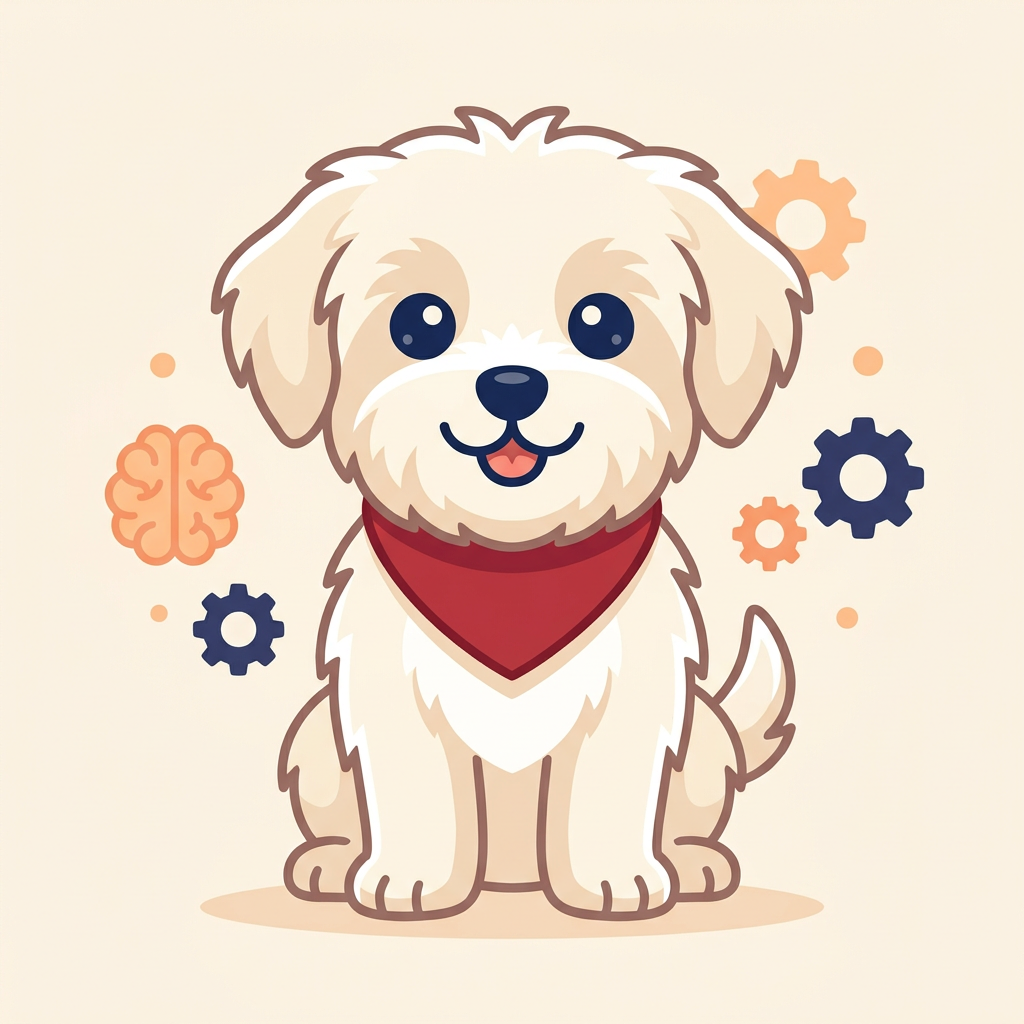
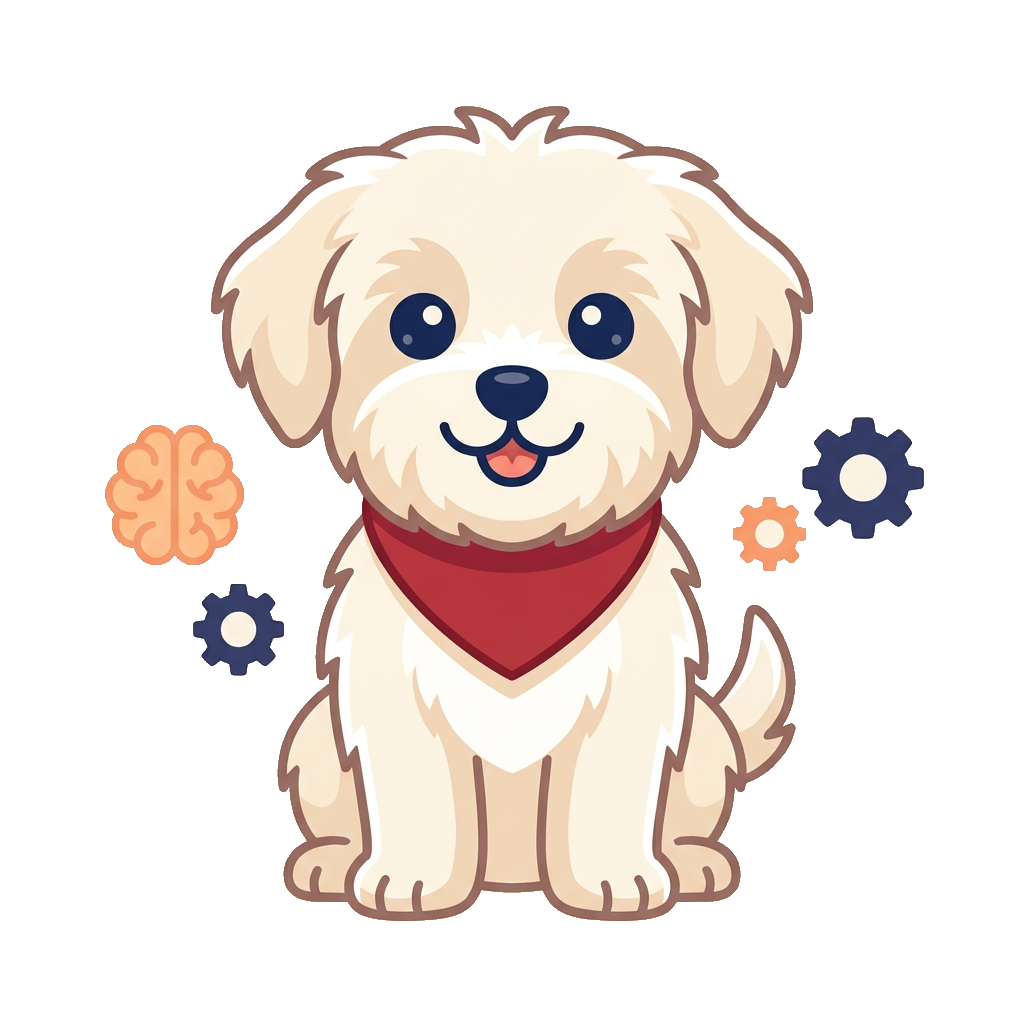
feat: 원작 요소 보강(해금·체크 1회·오늘의 한 마디) + 마스코트 투명화
원작(DS 두뇌 트레이닝) 요소 감사 후 미반영 3종 구현:
- 게임 해금: 시작 6종, 훈련한 날(도장)마다 3종씩 해금 — 잠긴 카드 🔒 + 필요 도장 안내
  (데일리 후보도 해금된 게임으로 제한)
- 뇌 나이 체크 하루 1회 기록 (재측정은 연습 안내)
- 오늘의 한 마디: 홈에 날짜 고정 팁 10종 로테이션 (일반 상식만, 의료 조언 배제)

그래픽 정합:
- 마스코트 크림 배경이 화이트 캔버스에서 분리돼 보이던 문제 → PIL 플러드필로
  배경 투명화 (Higgsfield 배경제거기는 플랫 일러스트 오인식, 원본은 mascot-cream-bg.png 보관)

시뮬 하네스: 시작 시 영구 백업 키(bw_backup_*) 기록 — 시뮬 중 실플레이가
종료 복원에 덮이는 사고 재발 방지

diff --git a/app.js b/app.js
@@ -84,6 +84,15 @@
   }
 
   const medal = s => s >= 85 ? "🥇" : s >= 65 ? "🥈" : s >= 40 ? "🥉" : "";
+
+  // ---------- 게임 해금 (원작식: 훈련한 날이 쌓이면 새 게임이 열림) ----------
+  const UNLOCK_SEQ = ["calc", "memory", "stroop", "rps", "trail", "flags",
+    "calc25", "photo", "people", "birds", "highest", "grid55",
+    "boxes", "dual", "nback", "serial", "speedcount", "sudoku", "calc100"];
+  const stamps = () => new Set(history().map(r => r.date)).size; // 훈련한 날 수
+  const unlockLimit = () => 6 + stamps() * 3; // 시작 6종 + 하루 3종씩
+  const isUnlocked = g => UNLOCK_SEQ.indexOf(g.id) < unlockLimit();
+  const unlockDay = g => Math.ceil((UNLOCK_SEQ.indexOf(g.id) - 5) / 3); // 필요한 도장 수
   // 뇌 나이(재미용 추정): 100점=20세 ~ 0점=80세 선형 매핑
   const brainAge = s => Math.max(20, Math.round(80 - 0.6 * s));
 
@@ -113,6 +122,21 @@
     $("#home-streak").textContent = line;
     $("#home-player").textContent = player() ? `🙋 ${player()} (바꾸기)` : "🙋 이름 정하기";
     $("#home-player").onclick = () => askPlayer(true);
+    // 오늘의 한 마디 (박사 잡담 포지션 — 일반 상식만, 의료 조언 아님)
+    const TIPS = [
+      "가벼운 산책 뒤에 하면 머리가 더 잘 돌아가요.",
+      "어제보다 1점이면 충분한 성장이에요.",
+      "소리 내어 숫자를 읽으면 계산이 빨라져요.",
+      "잠을 푹 잔 날은 기억 게임이 잘 돼요.",
+      "새로운 게임에 도전하는 것 자체가 좋은 자극이에요.",
+      "손가락을 많이 쓰면 두뇌도 함께 깨어나요.",
+      "매일 같은 시간에 하면 습관이 되기 쉬워요.",
+      "가족과 점수 내기를 하면 두 배로 재미있어요.",
+      "물 한 잔 마시고 시작해 보세요.",
+      "틀려도 괜찮아요. 뇌는 실수에서 더 배워요."
+    ];
+    const dayIdx = Math.floor(Date.now() / 86400000) % TIPS.length; // 하루 하나 고정
+    $("#home-tip").textContent = `💬 ${TIPS[dayIdx]}`;
     $("#chk-relax").checked = settings().relaxMode;
     $("#chk-sound").checked = settings().sound !== false;
   }
@@ -281,8 +305,12 @@
     const age = brainAge(avg);
     const ac = ageChecks();
     const prev = ac.length ? ac[ac.length - 1].age : null;
-    ac.push({ date: today(), age, avg });
-    store.set("bw_agecheck", ac);
+    // 원작식: 뇌 나이 기록은 하루 1회. 추가 측정은 연습으로만
+    const measuredToday = ac.some(r => r.date === today());
+    if (!measuredToday) {
+      ac.push({ date: today(), age, avg });
+      store.set("bw_agecheck", ac);
+    }
     show("result");
     $("#result-title").textContent = "🧠 재미로 보는 뇌 나이";
     $("#result-comment").textContent = "";
@@ -291,10 +319,11 @@
     // 드럼롤 → 숫자 롤링 → 쾅 공개
     FX.reveal($("#result-score"), age, "세", () => {
       $("#result-comment").textContent =
-        prev == null ? "첫 측정이에요. 내일 또 재 보세요!"
-          : age < prev ? `지난번 ${prev}세보다 젊어졌어요!`
-            : age > prev ? `지난번 ${prev}세보다 살짝 높네요. 컨디션 탓일 거예요.`
-              : "지난번과 같아요. 안정적!";
+        measuredToday ? "오늘은 이미 측정했어요 — 이번 건 연습 기록이에요. 내일 다시 재 봐요!"
+          : prev == null ? "첫 측정이에요. 내일 또 재 보세요!"
+            : age < prev ? `지난번 ${prev}세보다 젊어졌어요!`
+              : age > prev ? `지난번 ${prev}세보다 살짝 높네요. 컨디션 탓일 거예요.`
+                : "지난번과 같아요. 안정적!";
       $("#result-detail").innerHTML =
         session.queue.map(g => `${icon(g)} ${g.name}: ${session.results[g.id]}점`).join("<br>") +
         `<br><span class="disclaimer">놀이용 추정치예요. 의료 검사가 아닙니다.</span>`;
@@ -318,7 +347,7 @@
   };
   $("#btn-daily").onclick = () => {
     const byCat = {};
-    DAILY_POOL.forEach(g => (byCat[CATS[g.id]] = byCat[CATS[g.id]] || []).push(g));
+    DAILY_POOL.filter(isUnlocked).forEach(g => (byCat[CATS[g.id]] = byCat[CATS[g.id]] || []).push(g));
     const cats = U.shuffle(Object.keys(byCat)).slice(0, 3);
     startSession("daily", cats.map(c => U.shuffle(byCat[c])[0]));
   };
@@ -328,10 +357,13 @@
     list.innerHTML = "";
     ALL.forEach(g => {
       const b = document.createElement("button");
-      b.className = "free-card";
+      const open = isUnlocked(g);
+      b.className = "free-card" + (open ? "" : " locked");
       const bs = best()[g.id];
-      b.innerHTML = `<img class="fc-img" src="${iconSrc(g)}" alt="" onerror="this.outerHTML='<span class=fc-icon>${icon(g)}</span>'"><span class="fc-name">${g.name}</span><span class="fc-best">${bs != null ? bs + "점 " + medal(bs) : "미도전"}</span>`;
-      b.onclick = () => startSession("free", [g]);
+      b.innerHTML = open
+        ? `<img class="fc-img" src="${iconSrc(g)}" alt="" onerror="this.outerHTML='<span class=fc-icon>${icon(g)}</span>'"><span class="fc-name">${g.name}</span><span class="fc-best">${bs != null ? bs + "점 " + medal(bs) : "미도전"}</span>`
+        : `<span class="fc-icon">🔒</span><span class="fc-name">${g.name}</span><span class="fc-best">🐾 도장 ${unlockDay(g)}개면 열려요</span>`;
+      if (open) b.onclick = () => startSession("free", [g]);
       list.appendChild(b);
     });
     show("free");

diff --git a/style.css b/style.css
@@ -164,6 +164,12 @@ h2 { font-size: 28px; font-weight: var(--fw-bold); line-height: var(--lh-heading
 /* 플레이어 이름 칩 */
 .player-chip { font-size: 15px; color: var(--fg-secondary); cursor: pointer; }
 .player-chip:hover { color: var(--aia-red); text-decoration: underline; }
+.home-tip { font-size: 15px; color: var(--fg-tertiary); margin-top: 2px; }
+
+/* 잠긴 게임 카드 */
+.free-card.locked { opacity: 0.55; cursor: default; box-shadow: none; background: var(--charcoal-50); }
+.free-card.locked:hover { border-color: var(--border-hairline); transform: none; box-shadow: none; }
+.free-card.locked .fc-icon { font-size: 34px; }
 .champ-name { font-size: 14px; color: var(--fg-tertiary); font-weight: var(--fw-regular); margin-left: 4px; }
 
 /* ---------- 게임 화면 ---------- */

diff --git a/sim/autoplay.js b/sim/autoplay.js
@@ -183,9 +183,11 @@
   // ----- 드라이버 -----
   window.__runAll = async function () {
     // 스냅샷
-    const KEYS = ["bw_history", "bw_levels", "bw_best", "bw_settings", "bw_agecheck"];
+    const KEYS = ["bw_history", "bw_levels", "bw_best", "bw_settings", "bw_agecheck", "bw_player", "bw_champs"];
     const snap = {};
     KEYS.forEach(k => snap[k] = localStorage.getItem(k));
+    // 시뮬 중 사용자가 실플레이하면 종료 복원이 그 기록을 덮어씀 → 영구 백업 남김 (수동 복구용)
+    localStorage.setItem("bw_backup_" + Date.now(), JSON.stringify(snap));
     localStorage.setItem("bw_levels", "{}"); // 전부 레벨 1로
     window.BW_TEST_SEC = 5;
     startAuto();

diff --git a/index.html b/index.html
@@ -18,6 +18,7 @@
     <p id="home-date"></p>
     <p id="home-streak" class="streak"></p>
     <p id="home-player" class="player-chip" title="눌러서 플레이어 바꾸기"></p>
+    <p id="home-tip" class="home-tip"></p>
   </header>
   <nav class="home-menu">
     <button class="menu-btn primary" id="btn-daily">